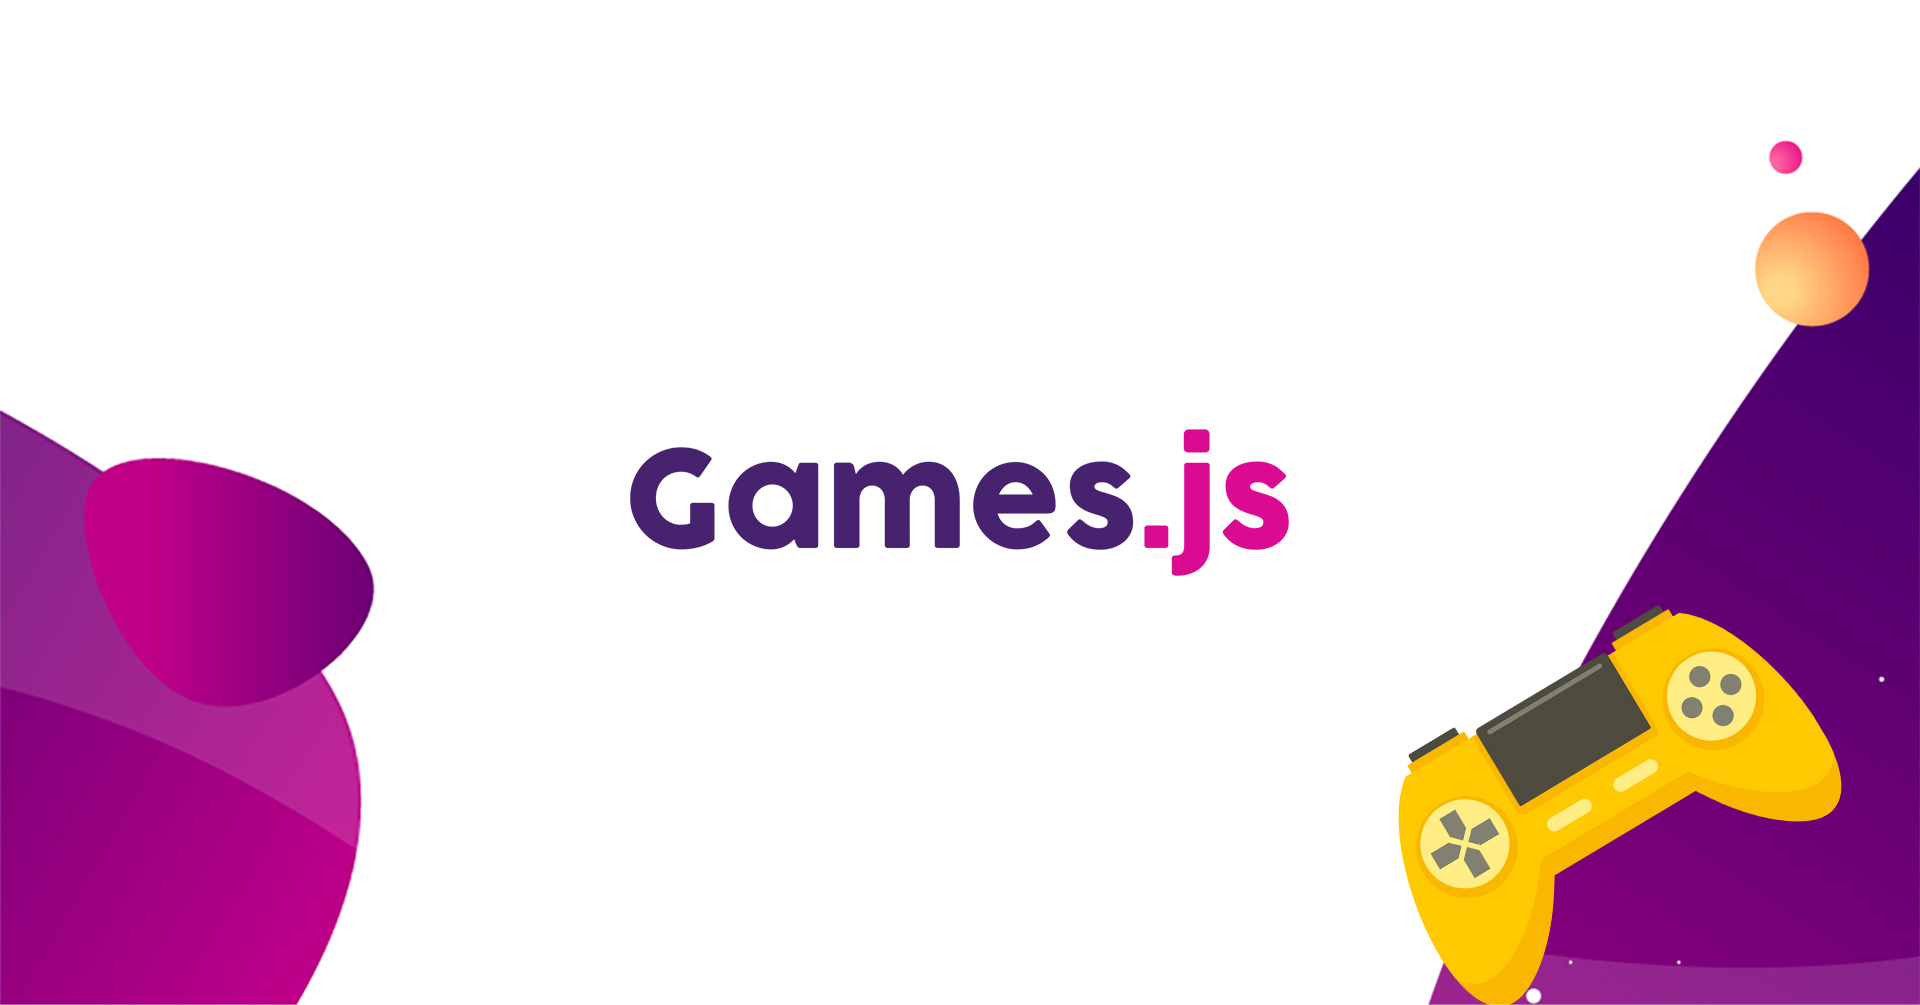
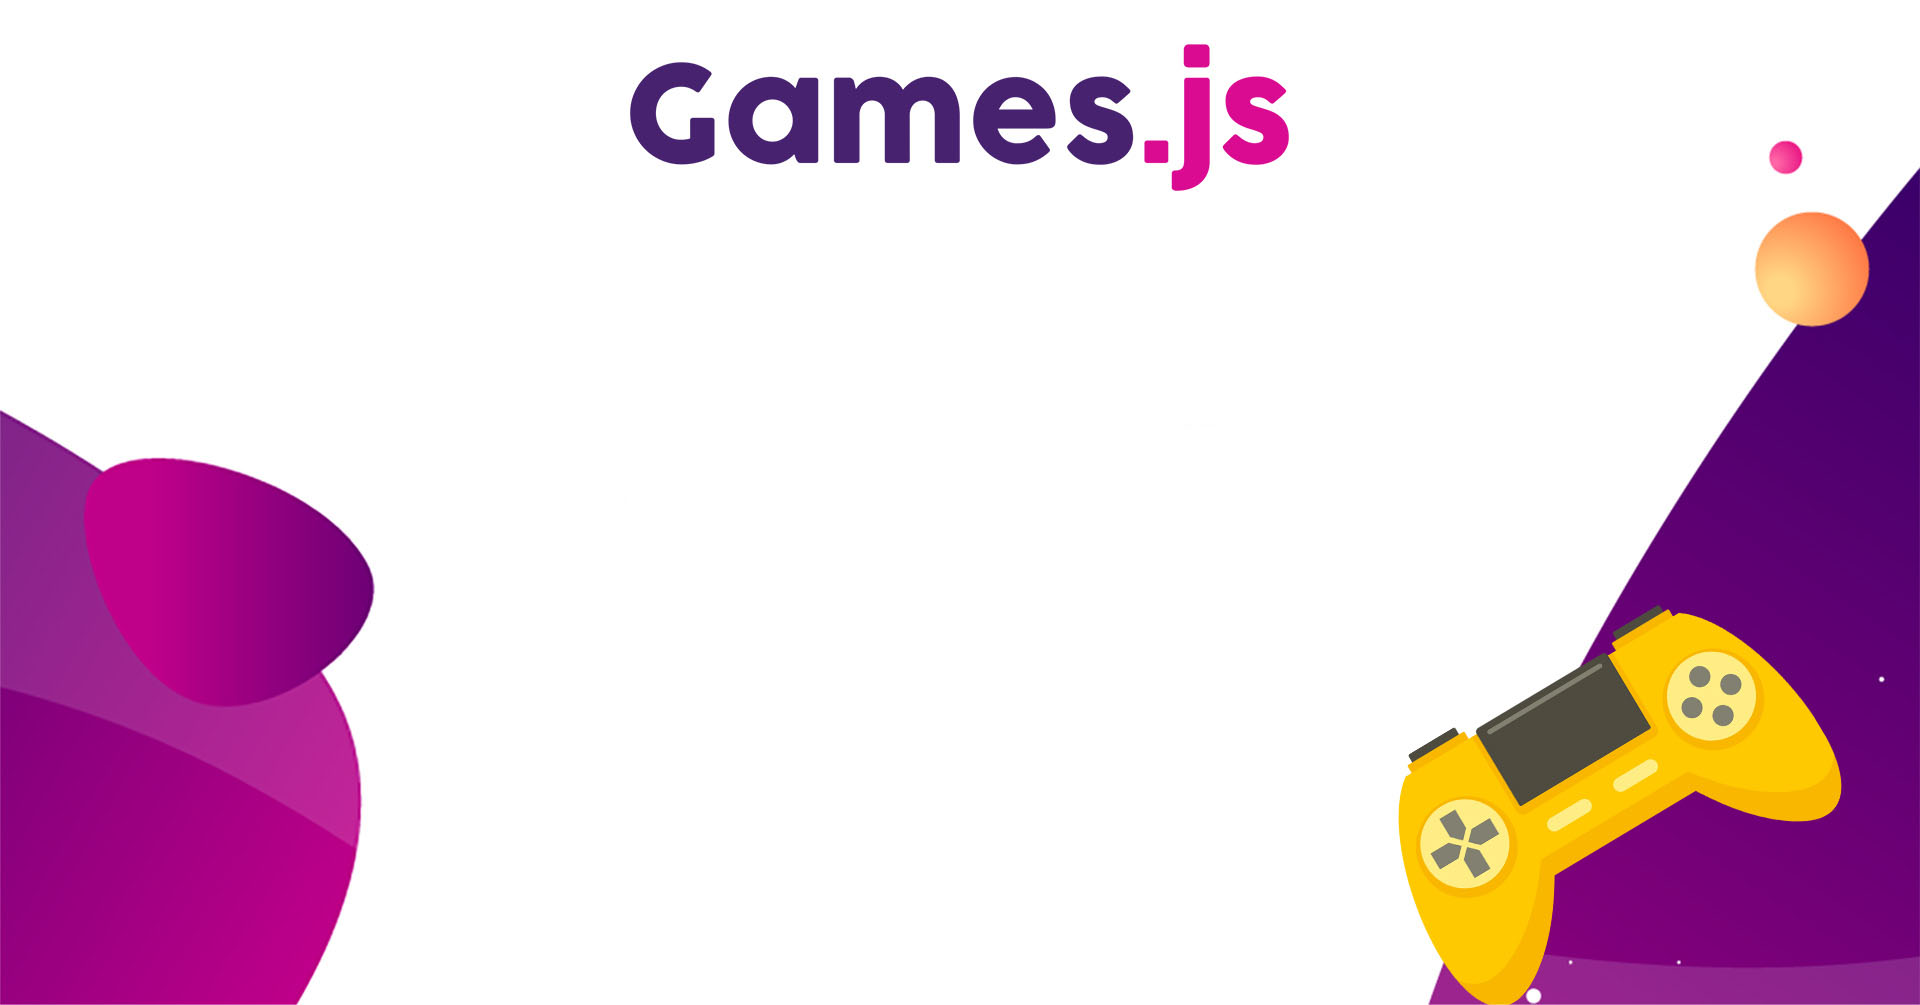
Add load progress callback to AssetManager, show splash load progress text

Changed region(s): [[0.3125, 0.0308, 0.6875, 0.1851], [0.3125, 0.4318, 0.6875, 0.5861]]

diff --git a/src/core/AssetManager.js b/src/core/AssetManager.js
@@ -38,12 +38,33 @@ class AssetManager {
    *
    * @type {Object} options.images id-url object map of the images to be loaded
    * @type {Object} options.sounds id-url object map of the sounds to be loaded
+   * @type {Object} options.sounds id-url object map of the sounds to be loaded
+   * @type {Function} progressCallback Progress callback function, called every time a single asset is loaded
+   *
+   * @return {Promise} Returns a promise that is resolved once all assets are loaded
    */
-  load({ images, sounds } = { images: this._images, sounds: this._sounds }) {
-    return Promise.all([
-      this.loadImages(images),
-      this.loadSounds(sounds),
-    ]);
+  load(assets = { images: this._images, sounds: this._sounds }, progressCallback = () => {}) {
+    const { images, sounds } = assets;
+    const assetTypesCount = Object.keys(assets).length;
+    const imagesCount = images ? Object.keys(images).length : 0;
+    const soundsCount = sounds ? Object.keys(sounds).length : 0;
+    const loadPromises = [];
+    let loadProgress = 0;
+
+    const calcTotalProgress = (val) => {
+      loadProgress += val / assetTypesCount;
+      progressCallback(loadProgress);
+    };
+
+    if (imagesCount) {
+      loadPromises.push(this.loadImages(images, () => calcTotalProgress(100 / imagesCount)));
+    }
+
+    if (soundsCount) {
+      loadPromises.push(this.loadSounds(sounds, calcTotalProgress));
+    }
+
+    return Promise.all(loadPromises);
   }
 
   /**
@@ -51,12 +72,14 @@ class AssetManager {
      *
      * @return {Promise} Resolved when the assets files are downloaded and parsed into texture objects
      */
-  loadImages(images = {}) {
+  loadImages(images = {}, progressCallback = () => {}) {
     const loader = new Loader(config.root);
 
     for (const [img, url] of Object.entries(images)) {
       loader.add(img, url);
     }
+
+    loader.onProgress.add(() => progressCallback(loader.progress));
 
     return new Promise(loader.load.bind(loader));
   }
@@ -82,12 +105,15 @@ class AssetManager {
      *
      * @return {Promise} Resolved when the assets files are downloaded and parsed into Howl objects
      */
-  loadSounds(sounds = {}) {
+  loadSounds(sounds = {}, progressCallback = () => {}) {
     const soundPromises = [];
 
     for (const [id, url] of Object.entries(sounds)) {
       soundPromises.push(this._loadSound(id, url));
     }
+
+    // currently howler doesn't support loading progress
+    Promise.all(soundPromises).then(progressCallback(100));
 
     return soundPromises;
   }

diff --git a/src/scenes/Splash.js b/src/scenes/Splash.js
@@ -1,7 +1,21 @@
 import Assets from '../core/AssetManager';
 import Scene from './Scene';
+import { Text } from 'pixi.js';
 
 export default class Splash extends Scene {
+  constructor() {
+    super();
+
+    this.loadingText = new Text('0%', {
+      fontSize: 75,
+      fill: 0xAA0044,
+    });
+
+    this.loadingText.x = this.width / 2;
+    this.loadingText.y = this.height / 2;
+    this.addChild(this.loadingText);
+  }
+
   preload() {
     const images = {
       logo: Assets.images.logo,
@@ -14,5 +28,14 @@ export default class Splash extends Scene {
     };
 
     return super.preload({ images, sounds });
+  }
+
+  onResize(width, height) { // eslint-disable-line no-unused-vars
+    this.loadingText.x = width / 2;
+    this.loadingText.y = (height / 2) + 500;
+  }
+
+  onLoadProgress(val) {
+    this.loadingText.text = `${val}%`;
   }
 }

diff --git a/src/scenes/Scene.js b/src/scenes/Scene.js
@@ -34,8 +34,17 @@ export default class Scene extends Container {
     // note that we don't use Promise.all here
     // since images have to be loaded over the network first
     // and then uploaded to the gpu
-    return Assets.load({ images, sounds })
+    return Assets.load({ images, sounds }, this.onLoadProgress.bind(this))
       .then(() => Assets.prepareImages(images));
+  }
+
+  /**
+   * Called when an individual asset is loaded and load progress is made
+   * 
+   * @param  {Number} progress Current progress value as a number
+   */
+  onLoadProgress(progress) {
+
   }
 
   /**

diff --git a/src/index.js b/src/index.js
@@ -1,7 +1,7 @@
 import Application from './core/Application';
 import * as PIXI from 'pixi.js';
 
-if(process.env.NODE_ENV == 'development'){
+if (process.env.NODE_ENV === 'development') {
   // required for pixi dev tools to work
   window.PIXI = PIXI;
 }
